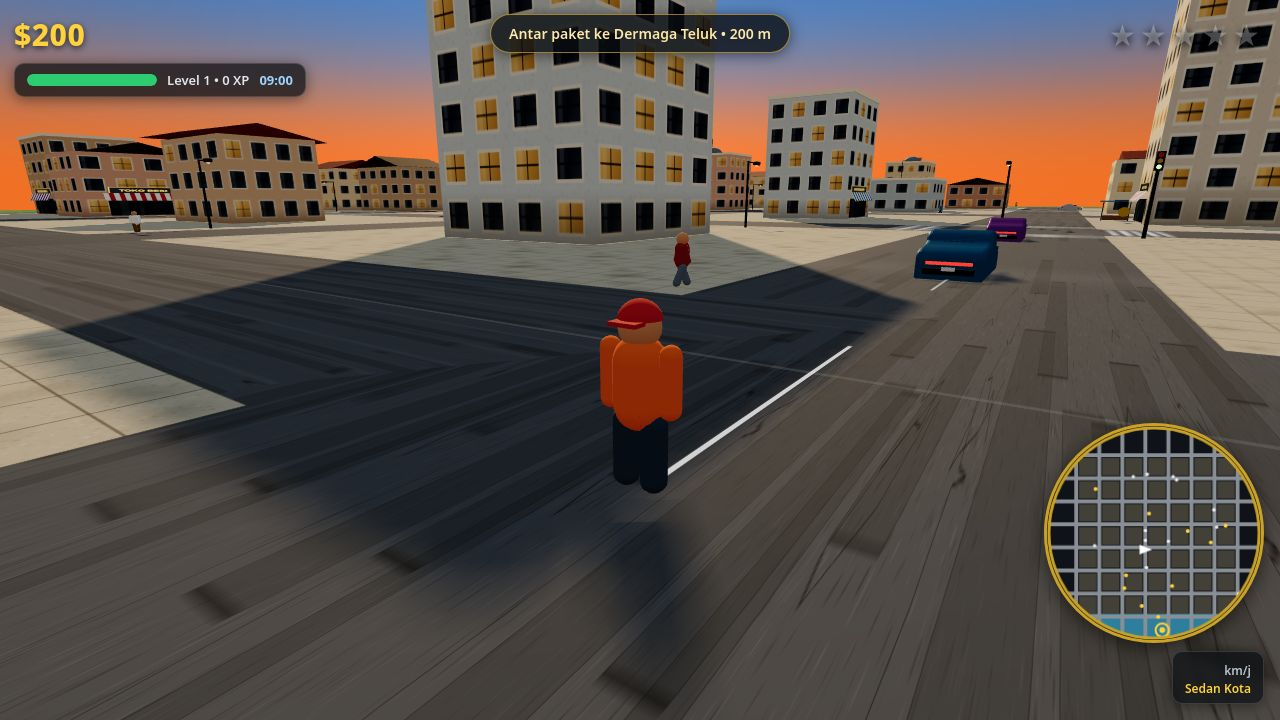
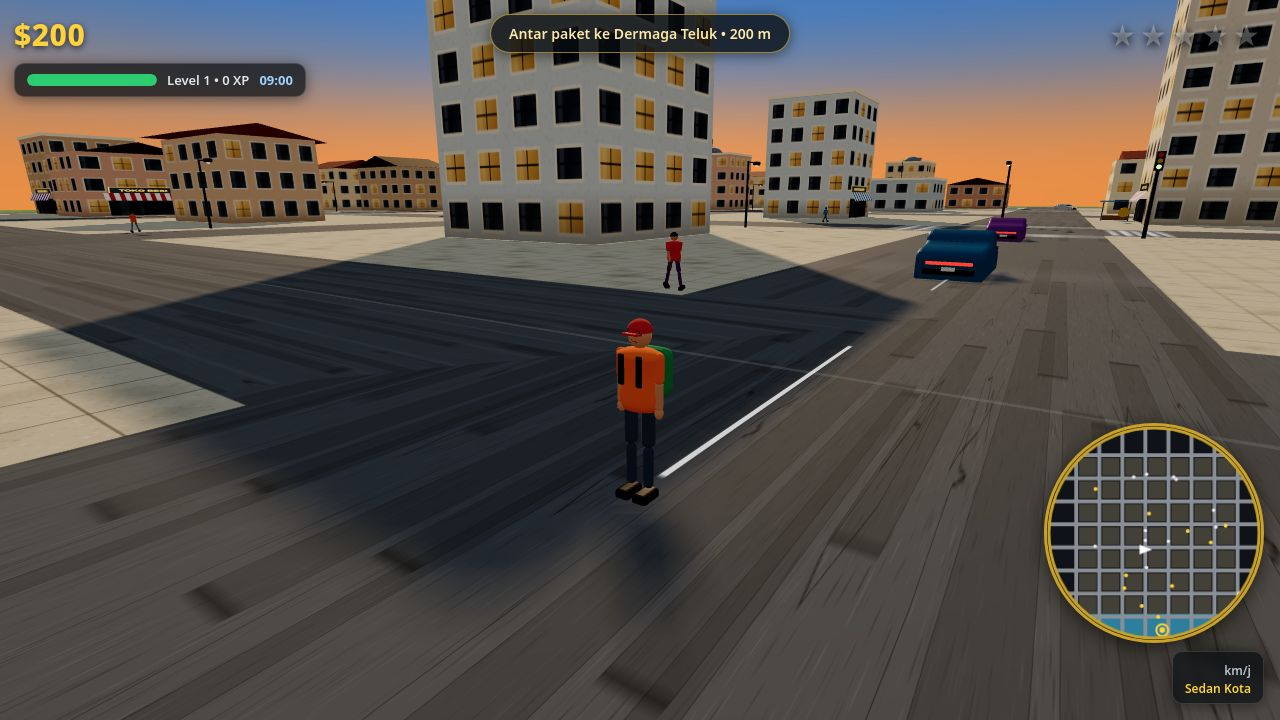
Wire human.js into player, peds, cops, taxi passenger; softer sky

diff --git a/game/src/traffic.js b/game/src/traffic.js
@@ -4,43 +4,16 @@
 import * as THREE from 'three';
 import { CITY, roadCoord, TRAFFIC, PALETTE } from './config.js';
 import { createCar, placeCar } from './vehicles.js';
-import { limb } from './shapes.js';
+import { makeHuman, walkSecondary, SKIN_TONES, HAIR_COLORS } from './human.js';
 
-// A generic person: capsule limbs pivoted at the joints, torso, head.
-// Colours vary; `uniform` dresses them as police.
+// A person built by human.js: real proportions (~1.76 m tall, head ~1/7.6),
+// two-segment limbs with knees and elbows, a face, hair/caps, varied
+// outfits. Same { group, parts } shape the walk code already uses
+// (legL/legR hip pivots, armL/armR shoulder pivots), so every caller
+// (pedestrians, cops, taxi passenger) gets a human for free.
 export function makePerson(game, opts = {}) {
-  const group = new THREE.Group();
-  const skin = new THREE.MeshStandardMaterial({ color: opts.skin || 0xc98a5e, roughness: 0.75 });
-  const shirt = new THREE.MeshStandardMaterial({ color: opts.shirt || 0x888888, roughness: 0.9 });
-  const pants = new THREE.MeshStandardMaterial({ color: opts.pants || 0x2c3e50, roughness: 0.9 });
-  const legL = limb(0.13, 0.52, pants);
-  legL.position.set(-0.15, 0.74, 0);
-  const legR = limb(0.13, 0.52, pants);
-  legR.position.set(0.15, 0.74, 0);
-  const torso = new THREE.Mesh(new THREE.CapsuleGeometry(0.24, 0.4, 4, 10), shirt);
-  torso.position.y = 1.12;
-  torso.castShadow = true;
-  const armL = limb(0.1, 0.46, shirt);
-  armL.position.set(-0.32, 1.4, 0);
-  const armR = limb(0.1, 0.46, shirt);
-  armR.position.set(0.32, 1.4, 0);
-  const head = new THREE.Mesh(new THREE.SphereGeometry(0.2, 14, 10), skin);
-  head.position.y = 1.62;
-  head.castShadow = true;
-  group.add(legL, legR, torso, armL, armR, head);
-  if (opts.hat) {
-    const hat = new THREE.Mesh(new THREE.CylinderGeometry(0.21, 0.23, 0.09, 12), new THREE.MeshStandardMaterial({ color: opts.hat, roughness: 0.8 }));
-    hat.position.y = 1.78;
-    group.add(hat);
-  }
-  if (opts.cap) {
-    const cap = new THREE.Mesh(new THREE.SphereGeometry(0.21, 14, 8, 0, Math.PI * 2, 0, Math.PI / 2.2), new THREE.MeshStandardMaterial({ color: opts.cap, roughness: 0.8 }));
-    cap.position.y = 1.66;
-    group.add(cap);
-  }
-  group.traverse((m) => { if (m.isMesh) m.castShadow = true; });
-  game.scene.add(group);
-  return { group, parts: { legL, legR, armL, armR } };
+  const h = makeHuman(game, opts);
+  return { group: h.group, parts: h.parts };
 }
 
 const PED_SHIRTS = [0xd35400, 0x2471a3, 0x1e8449, 0x7d3c98, 0xc0392b, 0x2e86c1, 0xd4ac0d, 0xecf0f1, 0x16a085, 0x943126];
@@ -102,11 +75,19 @@ export function createTraffic(game) {
     const vertical = rng.chance(0.5);
     const x = vertical ? road + side * 9.2 : along;
     const z = vertical ? along : road + side * 9.2;
+    const female = rng.chance(0.3);
+    const headwear = rng.chance(0.3)
+      ? { hat: rng.pick([0x2c3e50, 0x7d3c98, 0xd4ac0d]) }
+      : rng.chance(0.25) ? { cap: rng.pick([0xc0392b, 0x2471a3, 0x1e8449]) } : {};
     const person = makePerson(game, {
+      skin: rng.pick(SKIN_TONES),
       shirt: rng.pick(PED_SHIRTS),
       pants: rng.pick(PED_PANTS),
-      hat: rng.chance(0.3) ? rng.pick([0x2c3e50, 0x7d3c98, 0xd4ac0d]) : undefined,
-      cap: rng.chance(0.25) ? rng.pick([0xc0392b, 0x2471a3, 0x1e8449]) : undefined,
+      hair: rng.pick(HAIR_COLORS),
+      longHair: female && rng.chance(0.7),
+      shortSleeve: rng.chance(0.5),
+      scale: rng.range(0.94, 1.06),
+      ...headwear,
     });
     person.group.position.set(x, 0, z);
     traffic.peds.push({
@@ -276,6 +257,8 @@ export function updateTraffic(game, dt) {
     ped.parts.legR.rotation.x = -swing;
     ped.parts.armL.rotation.x = -swing * 0.7;
     ped.parts.armR.rotation.x = swing * 0.7;
+    // Knees bend, elbows keep a soft bend, the body bobs (human.js).
+    walkSecondary(ped.parts, ped.phase, ped.fleeTimer > 0 ? 0.7 : 0.5);
     ped.group.position.copy(ped.pos);
     ped.group.rotation.y = ped.heading;
   }

diff --git a/game/src/player.js b/game/src/player.js
@@ -1,53 +1,26 @@
-// The player on foot: a properly proportioned character (capsule limbs
-// pivoted at the joints, torso, head with cap), walk/run/jump, punch and
-// pistol combat, entering and exiting cars, and the third-person camera.
+// The player on foot: Raka built by human.js — real proportions (~1.76 m,
+// head ~1/7.6), two-segment limbs, a face, orange ojek shirt, red cap and
+// green delivery backpack. Walk/run/jump, punch and pistol combat, entering
+// and exiting cars, and the third-person camera.
 import * as THREE from 'three';
 import { TUNE } from './config.js';
-import { limb } from './shapes.js';
-
-function skinMat() {
-  return new THREE.MeshStandardMaterial({ color: 0xc98a5e, roughness: 0.75 });
-}
-function clothMat(color) {
-  return new THREE.MeshStandardMaterial({ color, roughness: 0.9 });
-}
+import { makeHuman, walkSecondary, idleBreath } from './human.js';
 
 export function createPlayer(game) {
-  const group = new THREE.Group();
-  const skin = skinMat();
-  const shirt = clothMat(0xe86a1a); // Raka's orange ojek shirt
-  const pants = clothMat(0x2c3e50);
-  const capMat = clothMat(0xc0392b);
-
-  const legL = limb(0.14, 0.55, pants);
-  legL.position.set(-0.16, 0.78, 0);
-  const legR = limb(0.14, 0.55, pants);
-  legR.position.set(0.16, 0.78, 0);
-  const torso = new THREE.Mesh(new THREE.CapsuleGeometry(0.26, 0.42, 4, 12), shirt);
-  torso.position.y = 1.18;
-  torso.castShadow = true;
-  const armL = limb(0.11, 0.5, shirt);
-  armL.position.set(-0.34, 1.48, 0);
-  const armR = limb(0.11, 0.5, shirt);
-  armR.position.set(0.34, 1.48, 0);
-  const head = new THREE.Mesh(new THREE.SphereGeometry(0.21, 16, 12), skin);
-  head.position.y = 1.72;
-  head.castShadow = true;
-  const cap = new THREE.Mesh(new THREE.SphereGeometry(0.22, 16, 8, 0, Math.PI * 2, 0, Math.PI / 2.2), capMat);
-  cap.position.y = 1.76;
-  const brim = new THREE.Mesh(new THREE.BoxGeometry(0.3, 0.04, 0.2), capMat);
-  brim.position.set(0, 1.78, -0.2);
-  // Small backpack (ojek rider's delivery bag).
-  const bag = new THREE.Mesh(new THREE.BoxGeometry(0.4, 0.5, 0.18), clothMat(0x1e8449));
-  bag.position.set(0, 1.2, 0.3);
-  bag.castShadow = true;
-
-  group.add(legL, legR, torso, armL, armR, head, cap, brim, bag);
-  group.traverse((m) => { if (m.isMesh) m.castShadow = true; });
+  // Raka: orange ojek shirt, red cap, green delivery backpack.
+  const h = makeHuman(game, {
+    skin: 0xc98a5e,
+    shirt: 0xe86a1a,
+    pants: 0x2c3e50,
+    shoes: 0x1a1a1a,
+    cap: 0xc0392b,
+    backpack: 0x1e8449,
+    shortSleeve: true,
+  });
 
   const player = {
-    group,
-    parts: { legL, legR, armL, armR, torso, head },
+    group: h.group,
+    parts: h.parts,
     pos: new THREE.Vector3(0, 0, 0),
     vy: 0,
     heading: 0,
@@ -58,8 +31,7 @@ export function createPlayer(game) {
     punchCooldown: 0,
     shootCooldown: 0,
   };
-  game.scene.add(group);
-  return player;
+  return player; // makeHuman already added the group to the scene
 }
 
 // Move on foot. `input` carries WASD relative to the camera yaw; the camera
@@ -96,11 +68,15 @@ export function updatePlayer(game, dt) {
     p.parts.legR.rotation.x = -swing;
     p.parts.armL.rotation.x = -swing * 0.8;
     p.parts.armR.rotation.x = swing * 0.8;
+    // Knees bend, elbows keep a soft bend, the body bobs (human.js).
+    walkSecondary(p.parts, p.walkPhase, input.run ? 0.75 : 0.55);
   } else {
     p.parts.legL.rotation.x *= 0.8;
     p.parts.legR.rotation.x *= 0.8;
     p.parts.armL.rotation.x *= 0.8;
     p.parts.armR.rotation.x *= 0.8;
+    // Standing still: soft breathing + the head looking around (human.js).
+    idleBreath(p.parts, game.elapsed, 0);
   }
 
   // Jump + gravity.

diff --git a/game/src/sky.js b/game/src/sky.js
@@ -25,13 +25,14 @@ void main() {
   vec3 col = mix(horizon, mid, smoothstep(0.0, 0.28, h));
   col = mix(col, zenith, smoothstep(0.24, 0.85, h));
   // Warm band hugging the horizon, strongest near the sun's azimuth.
+  // Kept soft (0.22) so the sky reads pale blue-gold, not solid orange.
   float sunAmount = max(dot(normalize(vDir), normalize(sunDir)), 0.0);
-  col += vec3(1.0, 0.55, 0.22) * pow(sunAmount, 6.0) * 0.35 * (1.0 - smoothstep(0.0, 0.5, h));
+  col += vec3(1.0, 0.55, 0.22) * pow(sunAmount, 6.0) * 0.22 * (1.0 - smoothstep(0.0, 0.5, h));
   // Sun disc + halo.
   col += vec3(1.0, 0.85, 0.6) * smoothstep(0.9993, 0.9997, sunAmount) * 2.4;
   col += vec3(1.0, 0.7, 0.4) * pow(sunAmount, 90.0) * 0.55;
   // Fine haze near the horizon.
-  col = mix(col, horizon, (1.0 - smoothstep(-0.02, 0.16, h)) * 0.55);
+  col = mix(col, horizon, (1.0 - smoothstep(-0.02, 0.16, h)) * 0.42);
   gl_FragColor = vec4(col, 1.0);
 }
 `;
@@ -48,7 +49,7 @@ export function createSky(scene, rng) {
       sunDir: { value: sunDir },
       zenith: { value: new THREE.Color(0x2f6fb8) },
       mid: { value: new THREE.Color(0x7fb2dd) },
-      horizon: { value: new THREE.Color(0xf7b06a) },
+      horizon: { value: new THREE.Color(0xf3c48f) }, // paler golden horizon
     },
     side: THREE.BackSide,
     depthWrite: false,
@@ -81,7 +82,7 @@ export function createSky(scene, rng) {
   scene.add(amb);
 
   // Warm haze so distant blocks melt into the horizon.
-  scene.fog = new THREE.Fog(0xe8b98a, 260, 1100);
+  scene.fog = new THREE.Fog(0xeec39a, 260, 1100);
 
   // Soft procedural clouds: radial-gradient sprites at several heights.
   const clouds = [];

diff --git a/game/src/police.js b/game/src/police.js
@@ -5,6 +5,7 @@ import * as THREE from 'three';
 import { TUNE, ECONOMY, PLACES } from './config.js';
 import { createCar, placeCar } from './vehicles.js';
 import { makePerson } from './traffic.js';
+import { walkSecondary } from './human.js';
 
 export function createPolice(game) {
   return {
@@ -43,6 +44,7 @@ function spawnCop(game) {
   const dist = game.rng.range(18, 30);
   const person = makePerson(game, {
     shirt: 0x1a3a8a, pants: 0x14181d, cap: 0x1a3a8a, skin: 0xb57748,
+    badge: true, belt: true,
   });
   const x = p.x + Math.cos(angle) * dist;
   const z = p.z + Math.sin(angle) * dist;
@@ -164,6 +166,8 @@ export function updatePolice(game, dt) {
     cop.parts.legR.rotation.x = -swing;
     cop.parts.armL.rotation.x = -swing * 0.7;
     cop.parts.armR.rotation.x = swing * 0.7;
+    // Running knees + elbows (human.js).
+    walkSecondary(cop.parts, cop.phase, 0.7);
     cop.group.position.copy(cop.pos);
     cop.group.rotation.y = cop.heading;
     if (!player.inCar && dist < TUNE.copCatchDistance) {

diff --git a/game/src/activities.js b/game/src/activities.js
@@ -3,6 +3,7 @@
 import * as THREE from 'three';
 import { ECONOMY, PLACES } from './config.js';
 import { makePerson } from './traffic.js';
+import { idleBreath } from './human.js';
 
 export function createActivities(game) {
   // The waiting taxi passenger at the pangkalan.
@@ -24,6 +25,8 @@ export function updateActivities(game, dt) {
   act.fareCooldown = Math.max(0, act.fareCooldown - dt);
 
   // --- Taxi fare ------------------------------------------------------------
+  // The waiting passenger breathes and looks around (human.js).
+  if (act.passenger.waiting) idleBreath(act.passenger.parts, game.elapsed, 1.3);
   if (act.fare) {
     const d = Math.hypot(act.fare.dest.x - px, act.fare.dest.z - pz);
     game.hud.setObjective(`Antar penumpang ke tujuan`, act.fare.dest, d);
